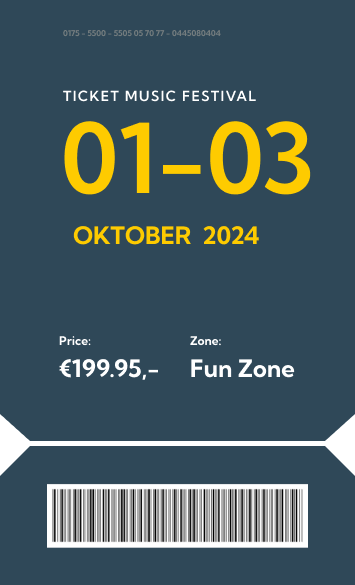
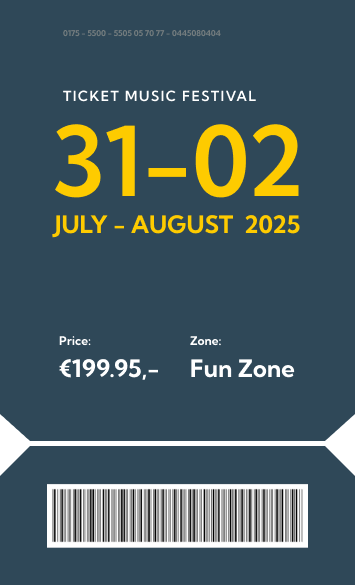
resetted timer event

Changed region(s): [[0.1549, 0.1846, 0.8986, 0.3385], [0.1549, 0.3692, 0.8676, 0.4308]]

diff --git a/src/components/ui/TimeTable.tsx b/src/components/ui/TimeTable.tsx
@@ -20,6 +20,9 @@ export default function TimeTable() {
 		};
 	}, [initializeBreakpoints]);
 
+	const date = new Date(process.env.NEXT_PUBLIC_DATE_EVENT);
+
+
 	const [day, setDay] = useState(1);
 
 	return (
@@ -27,7 +30,7 @@ export default function TimeTable() {
 			{!smallMobile && !mobile && !tablet ? (
 				<>
 					<div className="grid grid-cols-3 border-b-2 border-primary pb-4 ">
-						{timeTableData.map(item => (
+						{timeTableData.map((item, i) => (
 							<div
 								key={item.day}
 								onClick={() => setDay(item.day)}
@@ -40,7 +43,8 @@ export default function TimeTable() {
 								{`DAY ${item.day}`}
 								<br />
 								<div className="font-kumbh-sans tracking-widest">
-									Oktober 0{item.day}.2024
+									{date.toLocaleDateString('en-US', { day: 'numeric', month: 'short', year: 'numeric' })}
+									{date.setDate(date.getDate() + 1) && ''}
 								</div>
 							</div>
 						))}

diff --git a/src/components/shop/Shop.tsx b/src/components/shop/Shop.tsx
@@ -21,10 +21,15 @@ export default function Shop() {
 	const decrementTickets = useTicketsStore(state => state.decrementTickets);
 	const setTicketsAmount = useTicketsStore(state => state.setTicketsAmount);
 
+	const eventDate = new Date(process.env.NEXT_PUBLIC_DATE_EVENT);
+	const endDate = new Date(eventDate);
+
+	endDate.setDate(eventDate.getDate() + 2);
+
 	const article = [
 		{
 			title: 'Ticket Festival: Fun Zone',
-			date: '01 - 03 Oktober 2024',
+			date: `${eventDate.toLocaleDateString()} - ${endDate.toLocaleDateString()}`,
 		},
 	];
 

diff --git a/src/components/ui/Ticket.tsx b/src/components/ui/Ticket.tsx
@@ -8,6 +8,7 @@ export default function Ticket() {
     const { openShoppingMenu } = useShoppingMenu();
 
     return (
+        <div className="flex items-center justify-center">
         <Image
             className="mx-auto cursor-pointer"
             src="/ticket.png"
@@ -19,5 +20,6 @@ export default function Ticket() {
                 openShoppingMenu();
             }}
         />
+        </div>
     );
 }
